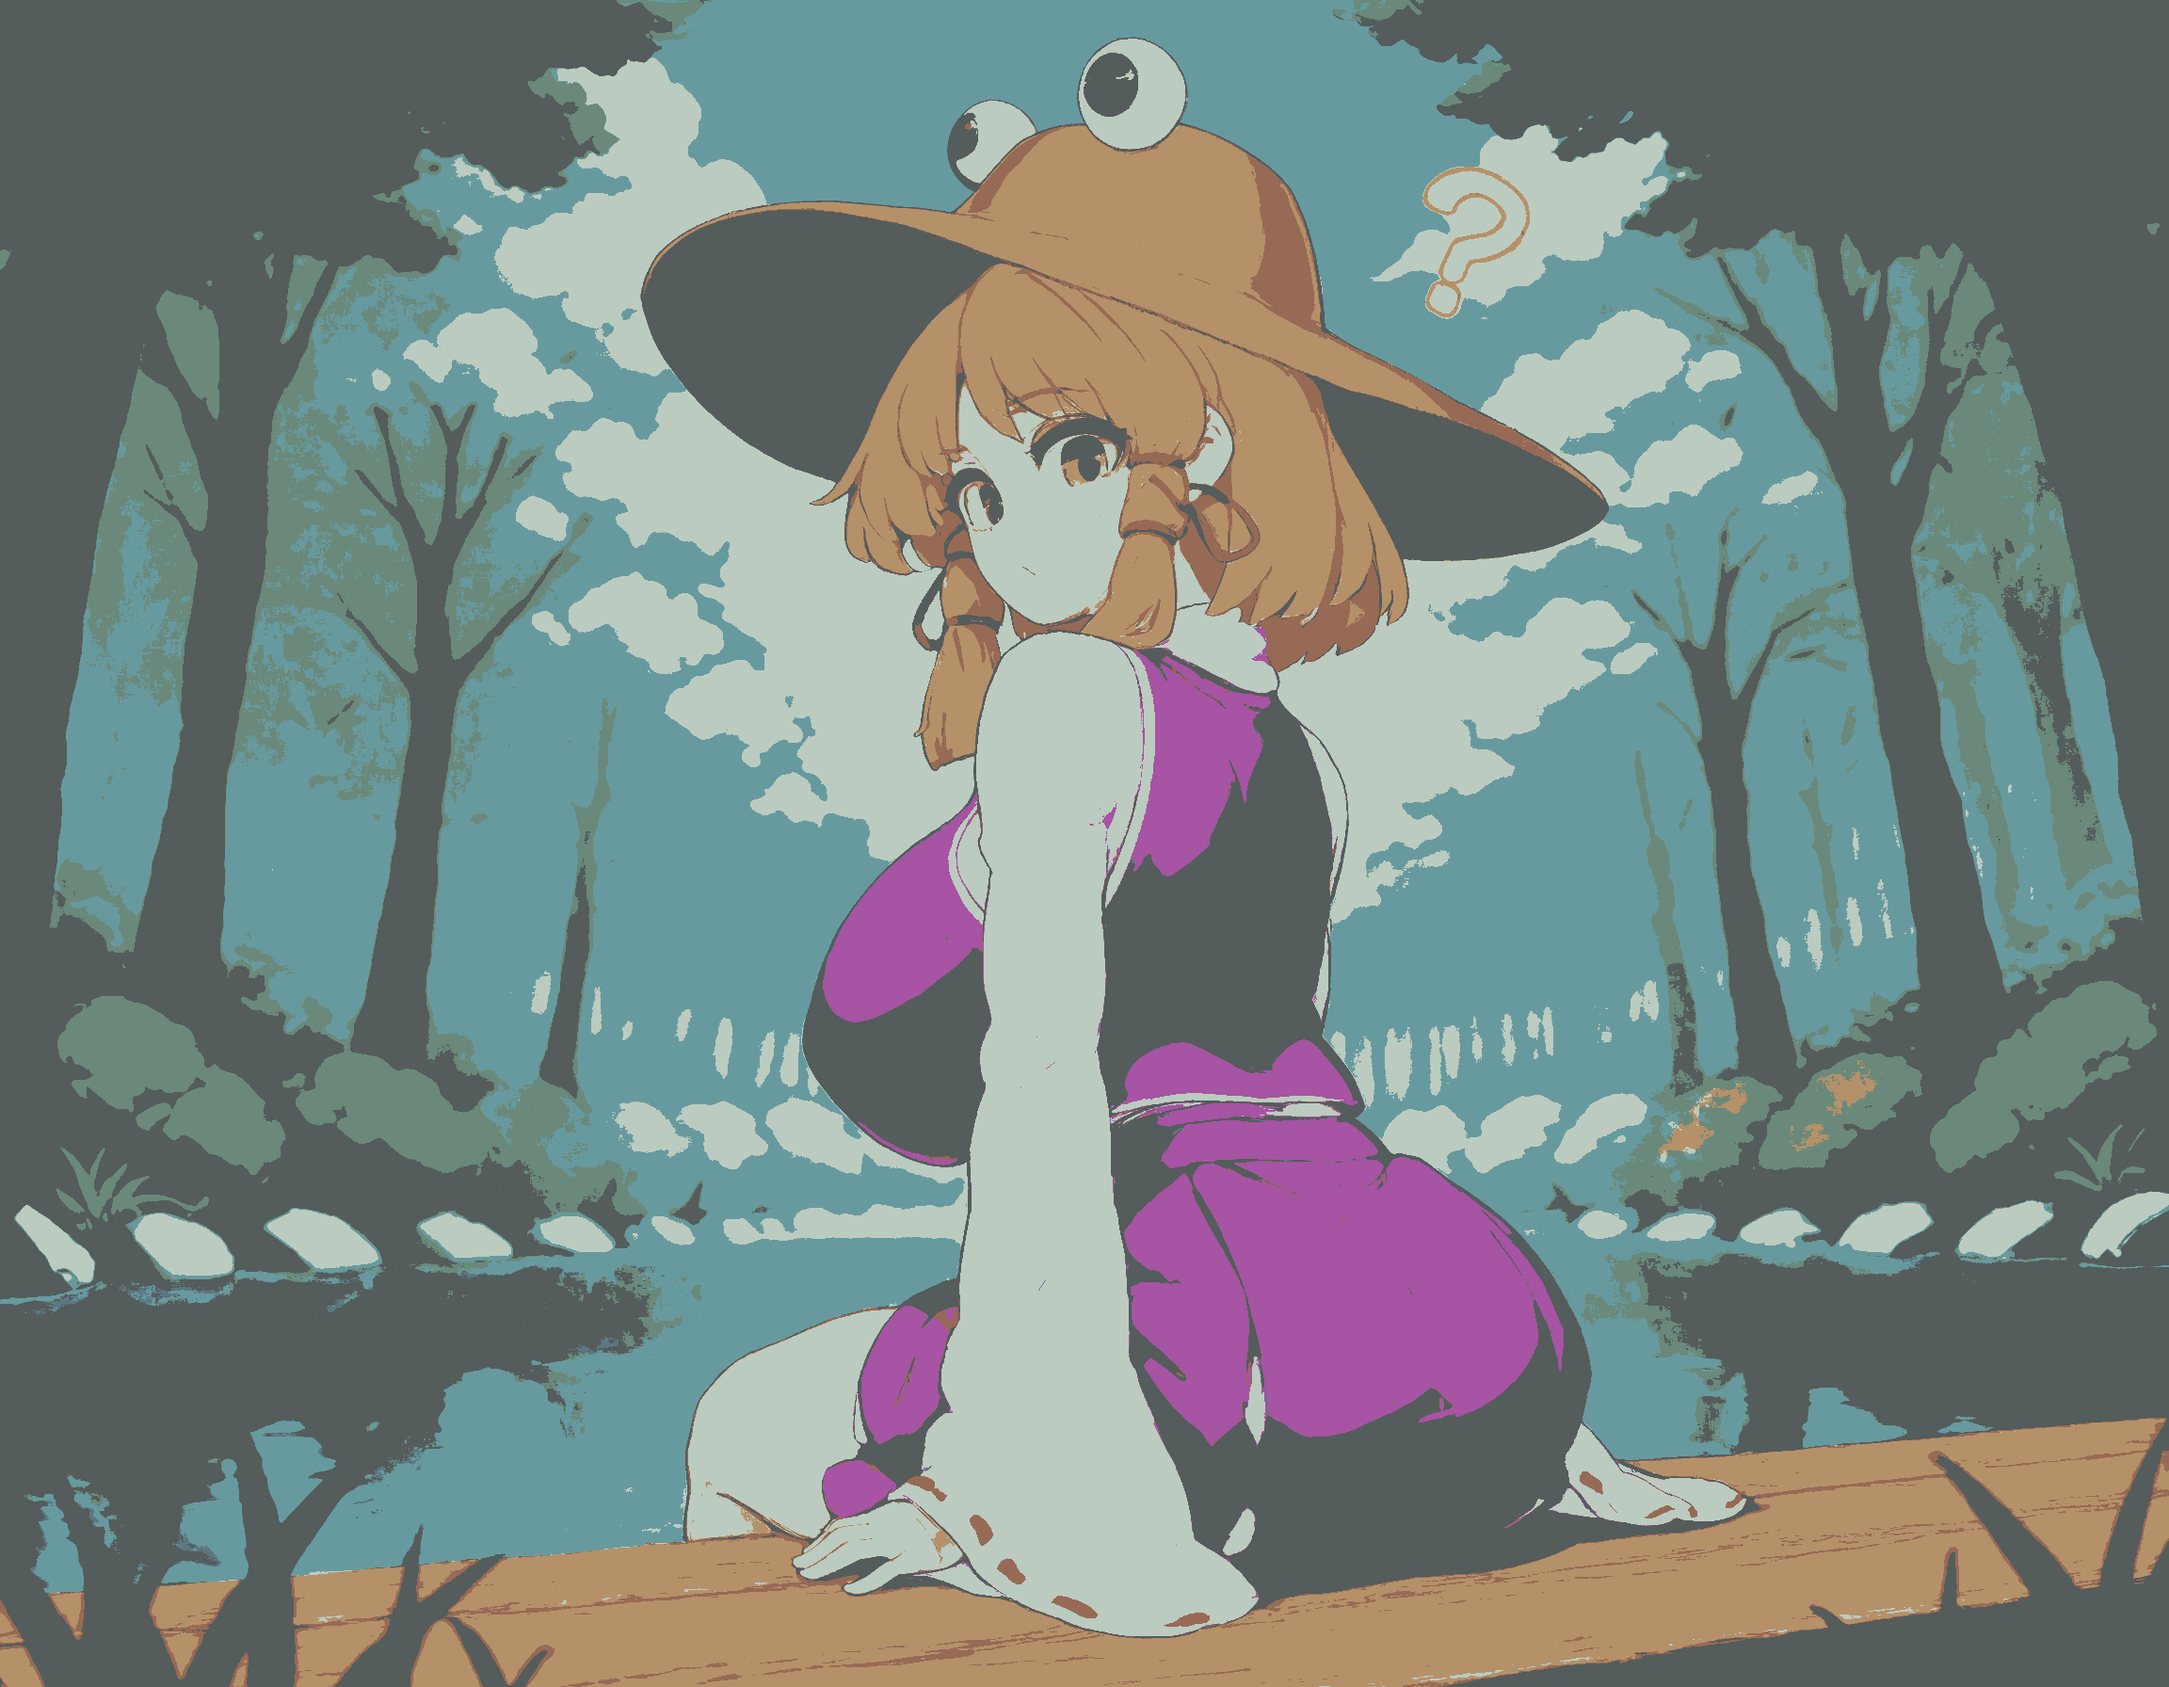
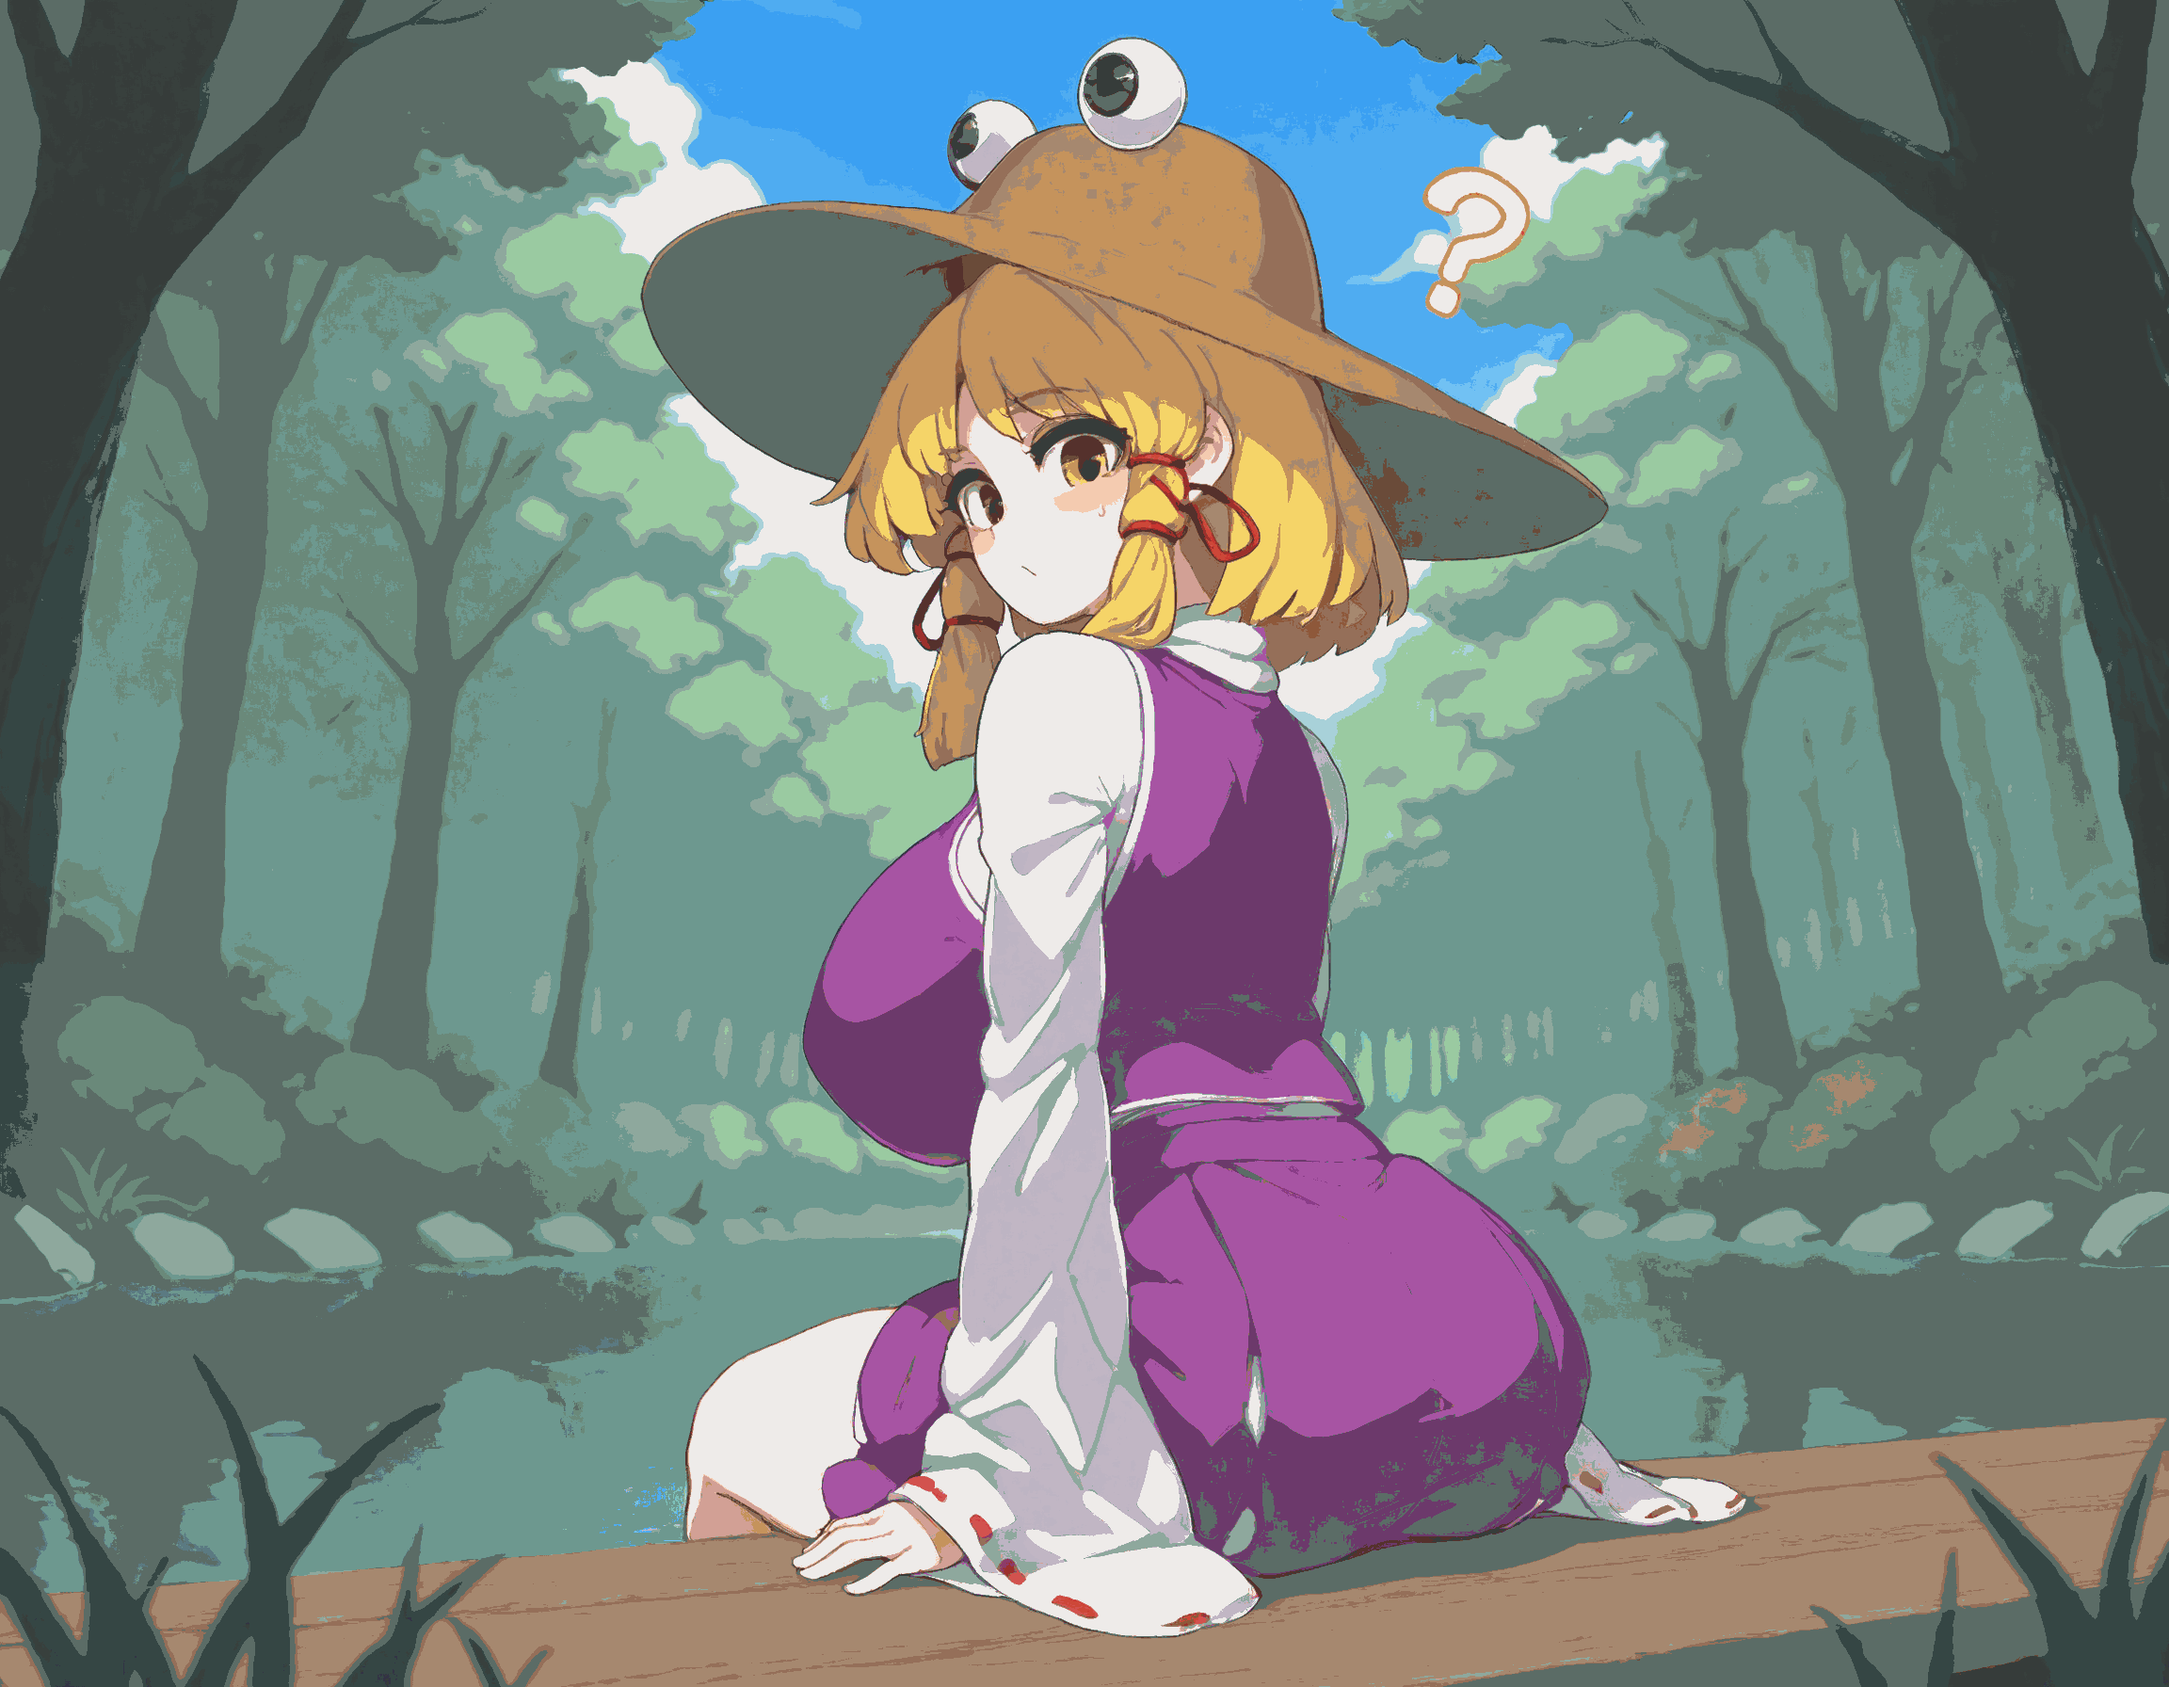
hacky sierra lite + octree

diff --git a/src/main.rs b/src/main.rs
@@ -1,7 +1,7 @@
 
 pub mod core;
 
-use core::octree::Octree;
+use core::octree::{add_colors, div_colors, mul_colors, Octree};
 use std::{fs::File, path::{self, Path}, time::{Duration, Instant}};
 use image::{DynamicImage, GenericImage, GenericImageView, Pixel, Rgb, RgbImage, Rgba, RgbaImage};
 
@@ -181,19 +181,21 @@ fn sierra_lite(source: &DynamicImage, destination: &mut RgbaImage) {
         let x = pixel.0 as usize;
         let y = pixel.1 as usize;
         let rgba: [u8; 4] = pixel.2.0;
-        // NOTES:
+        // TODO:
         //
-        // quant color using the octree
+        // quant color using the octree instead.
         let grayscale = (f32::from(rgba[0]) * 0.2126 
             + f32::from(rgba[1]) * 0.7152 
             + f32::from(rgba[2]) * 0.0722)
         .round()
         .clamp(0.0, 255.0) as i16;
-        // corrected grayscale will probably be adding the rgb values then averaging them, then
-        // pushing them back into the octree to get another value.
+
+        // corrected grayscale will probably be adding the rgb values then averaging them (TODO)
         let corrected_grayscale = (grayscale + current_errors[x as usize]).clamp(0, 255);
+        // pushing them back into the octree to get another value (TODO)
         let bw_color: u8 = if corrected_grayscale <= 127 { 0 } else { 255 };
 
+        // representing the error as an Rgb<u64> (TODO)
         let color_error = corrected_grayscale - i16::from(bw_color);
 
         // https://tannerhelland.com/2012/12/28/dithering-eleven-algorithms-source-code.html
@@ -213,6 +215,53 @@ fn sierra_lite(source: &DynamicImage, destination: &mut RgbaImage) {
     }
 }
 
+fn sierra_lite_full_color(octree: &Octree, palette: &Vec<Rgb<u8>>, source: &DynamicImage, destination: &mut RgbImage) {
+    let image_width = source.width() as usize;
+
+    let mut current_errors = vec![Rgb::<u8>([0, 0, 0]); image_width + 1];
+    let mut forward_errors = vec![Rgb::<u8>([0, 0, 0]); image_width + 1];
+
+    for pixel in source.pixels() {
+        let x = pixel.0 as usize;
+        let y = pixel.1 as usize;
+        let rgb = pixel.2.to_rgb();
+        // TODO:
+        // quant color using the octree instead.
+        let corrected_color = Rgb([
+            rgb.0[0].saturating_add(current_errors[x as usize].0[0]),
+            rgb.0[1].saturating_add(current_errors[x as usize].0[1]),
+            rgb.0[2].saturating_add(current_errors[x as usize].0[2]),
+        ]);
+        let index = octree.get_palette_index(corrected_color);
+        let quantized_color = palette[index.unwrap()];
+        // representing the error as an Rgb<u64> (TODO)
+
+        let color_error = Rgb([
+            rgb.0[0].saturating_sub(quantized_color.0[0]),
+            rgb.0[1].saturating_sub(quantized_color.0[1]),
+            rgb.0[2].saturating_sub(quantized_color.0[2]),
+        ]);
+        // https://tannerhelland.com/2012/12/28/dithering-eleven-algorithms-source-code.html
+        // https://www.youtube.com/watch?v=ico4fJfohMQ
+        let forward_x = (x + 1).clamp(0, image_width) as usize;
+        let behind_x = if x <= 0 { 0 } else { (x - 1).clamp(0, image_width) as usize };
+        add_colors(&mut current_errors[forward_x], &div_colors(&mut mul_colors(&color_error, &Rgb([2, 2, 2])), &Rgb([4, 4, 4])));
+        // current_errors[forward_x] += color_error * 2 / 4;
+        add_colors(&mut forward_errors[behind_x], &div_colors(&color_error, &Rgb([4, 4, 4])));
+        // forward_errors[behind_x] += color_error / 4;
+        add_colors(&mut forward_errors[x], &div_colors(&color_error, &Rgb([4, 4, 4])));
+        // forward_errors[x] += color_error / 4;
+        
+        destination.put_pixel(x as u32, y as u32, quantized_color);
+
+        if x >= image_width - 1 {
+            current_errors.clone_from_slice(&forward_errors);
+            forward_errors.fill(Rgb([0, 0, 0]));
+        }
+    }
+}
+
+/*
 fn main() {
     let source_path = Path::new("images/sakuya_gardening.png");
     let absolute_source_path = path::absolute(source_path).unwrap().into_os_string().into_string().unwrap();
@@ -225,53 +274,41 @@ fn main() {
     let absolute_source_path = path::absolute(source_path).unwrap().into_os_string().into_string().unwrap();
     new_img.save(absolute_source_path);
 }
+*/
 
-/*
 fn main() {
-    let source_path = Path::new("images/suwako.png");
+    let source_path = Path::new("images/Portal_Companion_Cube.png");
     let absolute_source_path = path::absolute(source_path).unwrap().into_os_string().into_string().unwrap();
     let img = image::open(absolute_source_path).unwrap();
 
     let mut recursive_octree = Octree::new();
 
-    let mut colors: Vec<Rgb<u8>> = vec![];
-    for (_, _, rgba) in img.pixels() {
-        colors.push(rgba.to_rgb());
-    }
-
     let start = Instant::now();
-    for color in colors {
-        recursive_octree.add_color(color);
+    for (_, _, rgba) in img.pixels() {
+        recursive_octree.add_color(rgba.to_rgb());
     }
 
     println!("\nseconds to initialize: {:?}", Instant::now() - start);
     println!("Tree leaves length: {}", recursive_octree.get_leaf_nodes().len());
 
-    let palette = recursive_octree.make_palette(16);
+    let palette = recursive_octree.make_palette(256);
     println!("Tree leaves after quant length: {}", recursive_octree.get_leaf_nodes().len());
 
     let mut new_img = image::RgbImage::new(img.width(), img.height());
 
     let start = Instant::now();
 
-    for x in 0..new_img.width() {
-        for y in 0..new_img.height() {
-            let pixel = img.get_pixel(x, y).to_rgb();
-            let palette_index = recursive_octree.get_palette_index(pixel);
-            match palette_index {
-                Some(palette_index) => new_img.put_pixel(x, y, palette[palette_index]),
-                None => println!("Couldn't find palette index for {} {}", x, y),
-            }
-        }
-    }
+    sierra_lite_full_color(&recursive_octree, &palette, &img, &mut new_img);
 
     let duration = start.elapsed();
     println!("Quantization took: {:?}", duration);
     println!("Time per pixel: {:.6} ms", duration.as_secs_f64() / (new_img.width() * new_img.height()) as f64 * 1000.0);
+    println!("Pixels: {}", new_img.width() * new_img.height());
 
-    let source_path = Path::new("images/suwako_quant.png");
+    let source_path = Path::new("images/Portal_Companion_Cube_sierra_lite_dither.png");
     let absolute_source_path = path::absolute(source_path).unwrap().into_os_string().into_string().unwrap();
-    new_img.save(absolute_source_path);
+    if let Err(err) = new_img.save(absolute_source_path) {
+        println!("Image Save Error: {}", err);
+    }
 }
-*/
 

diff --git a/src/core/octree.rs b/src/core/octree.rs
@@ -1,6 +1,6 @@
 
 use core::fmt;
-use std::{cell::RefCell, rc::{Rc, Weak}};
+use std::{cell::RefCell, ops::{AddAssign, Sub, Mul, Div}, rc::{Rc, Weak}};
 
 use image::Rgb;
 
@@ -13,8 +13,53 @@ pub fn get_color_index(color: Rgb<u8>, level: usize) -> usize {
 
     return index;
 }
+pub fn add_colors<T, U>(color: &mut Rgb<T>, other_color: &Rgb<U>) 
+where
+    T: AddAssign + From<U>,
+    U: Copy,
+{
+    color.0.iter_mut()
+        .zip(other_color.0.iter().copied())
+        .for_each(|(a, b)| *a += T::from(b));
+}
 
-const MAX_DEPTH: u8 = 5;
+pub fn sub_colors<T, U>(color: &Rgb<T>, other_color: &Rgb<U>) -> Rgb<T> 
+where
+    T: Sub<U, Output = T> + Copy,
+    U: Copy,
+{
+    Rgb([
+        color.0[0] - other_color.0[0],
+        color.0[1] - other_color.0[1],
+        color.0[2] - other_color.0[2],
+    ])
+}
+
+pub fn mul_colors<T, U>(color: &Rgb<T>, other_color: &Rgb<U>) -> Rgb<T> 
+where
+    T: Mul<U, Output = T> + Copy,
+    U: Copy,
+{
+    Rgb([
+        color.0[0] * other_color.0[0],
+        color.0[1] * other_color.0[1],
+        color.0[2] * other_color.0[2],
+    ])
+}
+
+pub fn div_colors<T, U>(color: &Rgb<T>, other_color: &Rgb<U>) -> Rgb<T> 
+where
+    T: Div<U, Output = T> + Copy,
+    U: Copy,
+{
+    Rgb([
+        color.0[0] / other_color.0[0],
+        color.0[1] / other_color.0[1],
+        color.0[2] / other_color.0[2],
+    ])
+}
+
+const MAX_DEPTH: u8 = 6;
 
 #[derive(Clone, Debug)]
 pub struct OctreeNode {
@@ -34,7 +79,11 @@ impl Octree {
     pub fn new() -> Self {
         Self {
             root: OctreeNode::new(),
-            levels: std::array::from_fn(|_| Vec::new()),
+            levels: std::array::from_fn(|_| {
+                let mut a = Vec::new();
+                a.reserve(10_000);
+                a
+            }),
         }
     }
     pub fn make_palette(&mut self, color_count: i32) -> Vec<Rgb<u8>> {
@@ -121,9 +170,7 @@ impl OctreeNode {
     }
     pub fn add_color(&mut self, color: Rgb<u8>, level: usize, levels: &mut LevelVec) {
         if level >= usize::from(MAX_DEPTH) {
-            for (a, b) in self.color.0.iter_mut().zip(color.0.iter()) {
-                *a += u32::from(*b)
-            } 
+            add_colors(&mut self.color, &color);
             self.pixel_count += 1;
             return;
         }
@@ -187,9 +234,7 @@ impl OctreeNode {
                     leaves_removed += 1;
                 }
                 self.pixel_count += borrowed_child.pixel_count;
-                for (own_color, child_color) in self.color.0.iter_mut().zip(borrowed_child.color.0.iter()) {
-                    *own_color += u32::from(*child_color);
-                }
+                add_colors(&mut self.color, &borrowed_child.color);
             }
             *child = None;
         }
